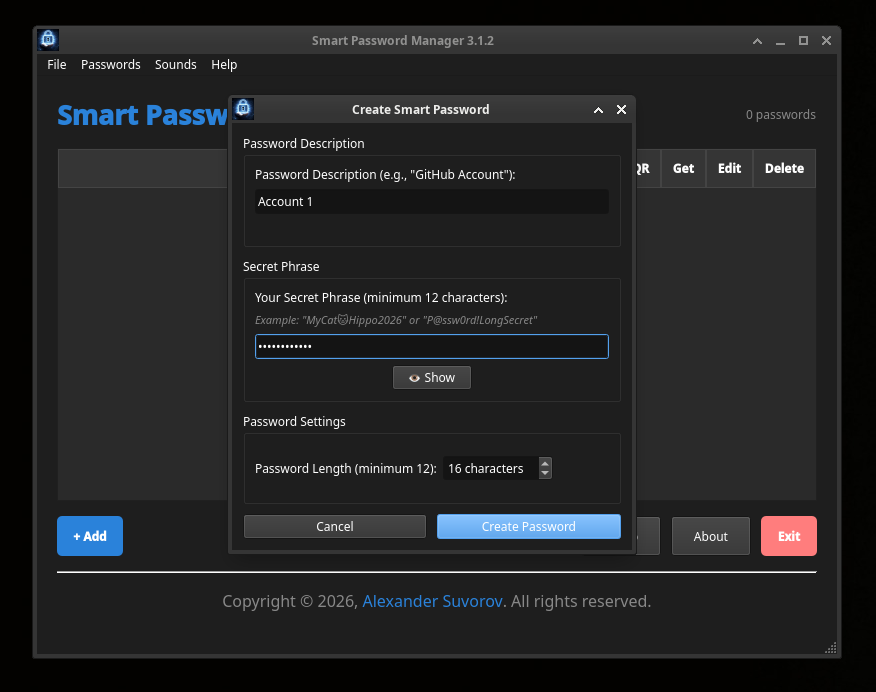
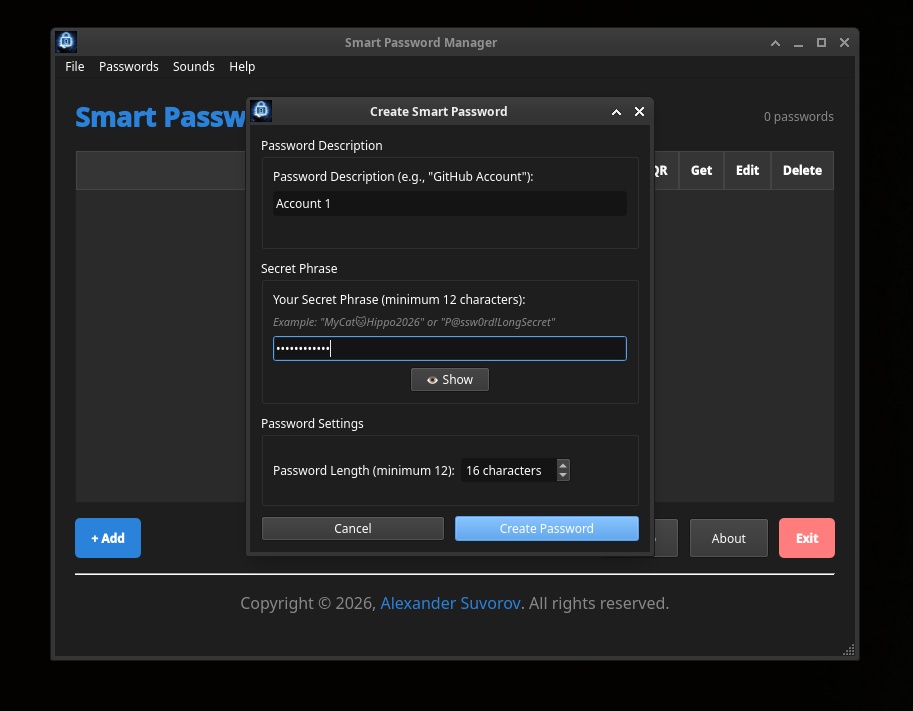
Smart Password Manager v3.1.3

diff --git a/core/models/configs/base_config.py b/core/models/configs/base_config.py
@@ -8,7 +8,7 @@ class BaseConfig:
         self.app_name = 'Smart Password Manager'
         self.app_long_name = "Smart Password Manager Desktop (Python)"
         self.author = 'Alexander Suvorov'
-        self.version = '3.1.2'
+        self.version = '3.1.3'
         self.description = ("Cross-platform desktop manager for deterministic smart passwords. "
                        "Generate, manage, and retrieve passwords without storing them. "
                        "Your secret phrase is the only key you need.")

diff --git a/core/__init__.py b/core/__init__.py
@@ -1,7 +1,7 @@
 # Copyright (©) 2026, Alexander Suvorov. All rights reserved.
 """Cross-platform desktop manager for deterministic smart passwords. Generate, manage, and
 retrieve passwords without storing them. Your secret phrase is the only key you need."""
-__version__ = '3.1.2'
+__version__ = '3.1.3'
 __author__ = 'Alexander Suvorov'
 __app_name__ = "Smart Password Manager"
 

diff --git a/README.md b/README.md
@@ -1,4 +1,4 @@
-# Smart Password Manager Desktop <sup>v3.1.2</sup>
+# Smart Password Manager Desktop <sup>v3.1.3</sup>
 
 ---
 
